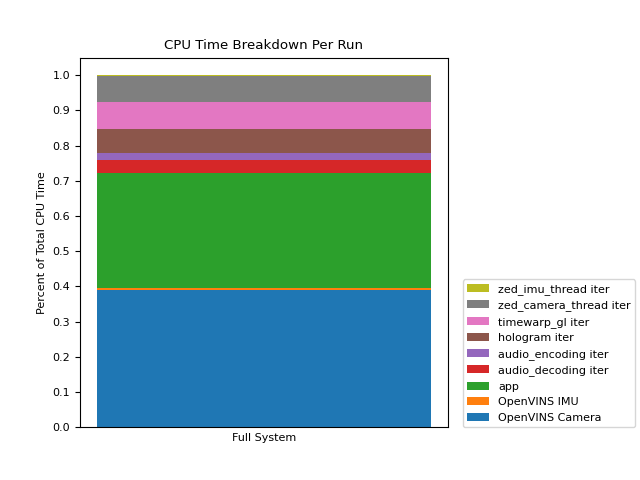
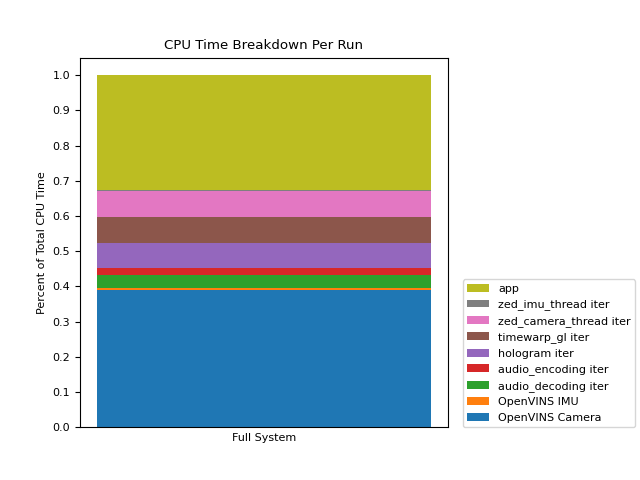
Moved app to top of stacked chart

Changed region(s): [[0.125, 0.1562, 0.6875, 0.5938], [0.7812, 0.5938, 1.0, 0.8125]]

diff --git a/analysis/main.py b/analysis/main.py
@@ -495,7 +495,7 @@ def get_data(metrics_path: Path) -> Tuple[Any]:
 
         return ts, summaries, switchboard_topic_stop, thread_ids, warnings_log
 
-FILE_NAME = "desktop-demo"
+FILE_NAME = "desktop-materials"
 
 @ch_cache.decor(ch_cache.FileStore.create("../metrics-" + FILE_NAME))
 def get_data_cached(metrics_path: Path) -> Tuple[Any]:
@@ -544,12 +544,13 @@ with ch_time_block.ctx("generating combined timeseries", print_start=False):
     total_cpu_time = 0.0
     plt.rcParams.update({'font.size': 8})
 
-    ignore_list = ['opencv', 'Runtime', 'camera_cvtfmt', 'app_gpu1', 'app_gpu2', 'hologram', 'timewarp_gl gpu']
-    # plot the same data on both axes
+    # App is only in this list because we want to make it appear at the top of the graph
+    ignore_list = ['opencv', 'Runtime', 'camera_cvtfmt', 'app_gpu1', 'app_gpu2', 'hologram', 'timewarp_gl gpu', 'app']
     for account_name in account_names:
         if account_name in ignore_list:
             continue
         total_cpu_time += summaries["cpu_time_duration_sum"][account_name]
+    total_cpu_time += summaries["cpu_time_duration_sum"]['app']
     
     width = 0.4
     bar_plots = []
@@ -562,6 +563,11 @@ with ch_time_block.ctx("generating combined timeseries", print_start=False):
         bar_plots.append(plt.bar(1, bar_height, width=width, bottom=rolling_sum)[0])
         rolling_sum += bar_height
 
+    # This is only because we want the app section at the top
+    bar_height = (summaries["cpu_time_duration_sum"]['app'] / total_cpu_time)
+    bar_plots.append(plt.bar(1, bar_height, width=width, bottom=rolling_sum)[0])
+    rolling_sum += bar_height
+
     plt.title('CPU Time Breakdown Per Run')
     plt.xticks(np.arange(0, 1, step=1))
     plt.xlabel("Jaes Results")
@@ -570,8 +576,10 @@ with ch_time_block.ctx("generating combined timeseries", print_start=False):
     plt.ylabel('Percent of Total CPU Time')
 
     plt.subplots_adjust(right=0.7)
-    plt.legend([x for x in bar_plots][::-1], [name for name in account_names if name not in ignore_list][::-1], bbox_to_anchor=(1.04,0), loc="lower left", borderaxespad=0)
-    
+    account_list = [name for name in account_names if name not in ignore_list]
+    account_list.append('app')
+
+    plt.legend([x for x in bar_plots][::-1], account_list[::-1], bbox_to_anchor=(1.04,0), loc="lower left", borderaxespad=0)
     plt.xlabel("Full System")
     plt.savefig(output_path / "stacked.png")
 
